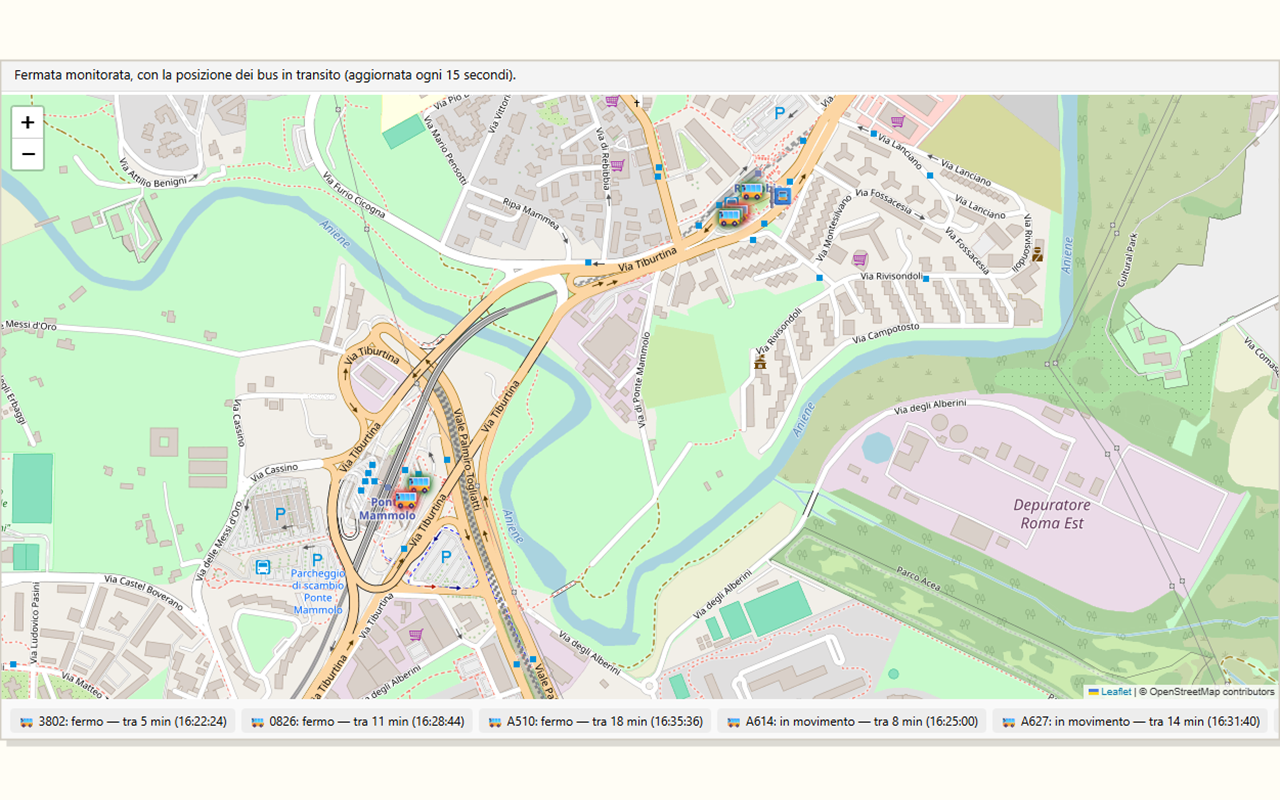
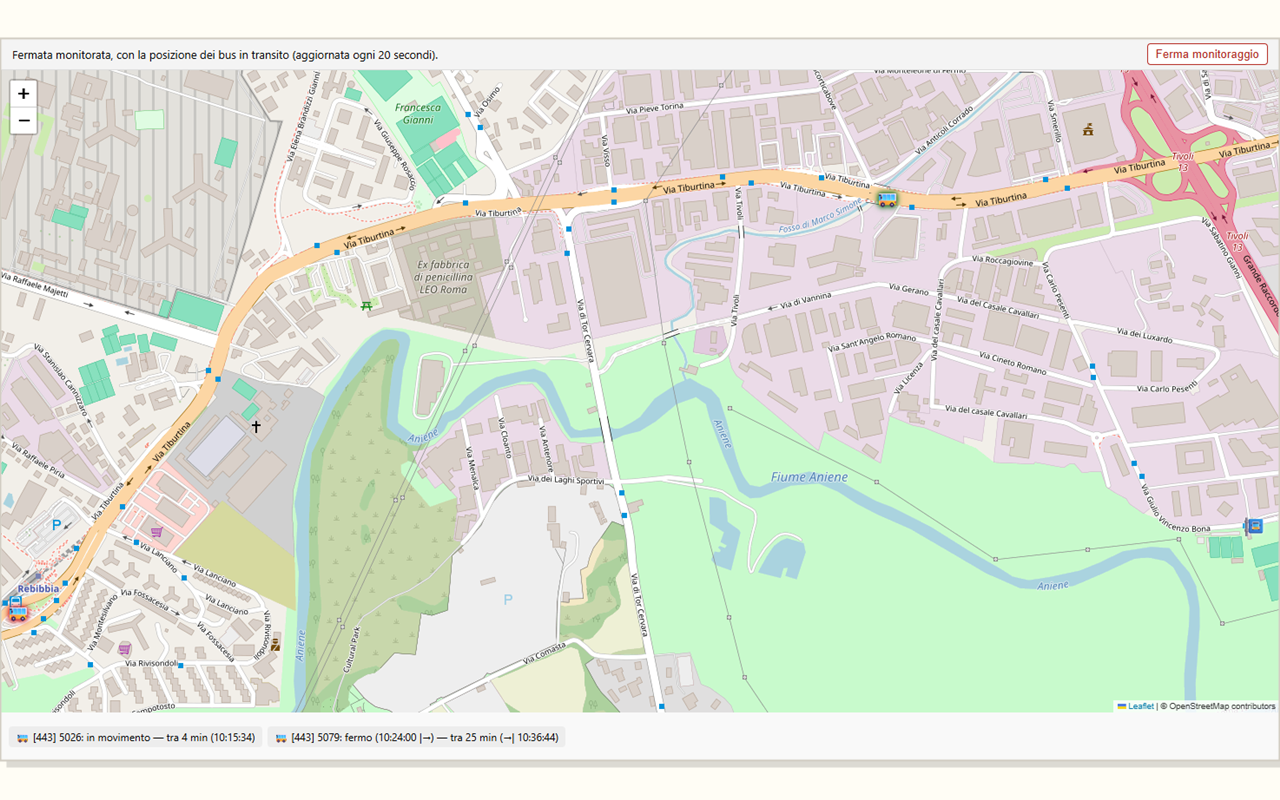
Update version to 1.0.3 and add release notes with new features and fixes

diff --git a/src/fullpage/map.ts b/src/fullpage/map.ts
@@ -8,7 +8,7 @@ import type { ArrivalInfo } from "../shared/models.js";
 import { minutesLabel } from "../shared/arrivalFormatting.js";
 
 const MAX_VISIBLE_STOPS = 150;
-const BUS_REFRESH_INTERVAL_MS = 15_000;
+const BUS_REFRESH_INTERVAL_MS = 20_000;
 const ROME_FALLBACK = { lat: 41.9028, lon: 12.4964 };
 const MAX_DISTANCE_FROM_ROME_KM = 50;
 
@@ -30,6 +30,7 @@ const stopMarkers = new Map<string, L.Marker>();
 const busMarkers = new Map<string, L.Marker>();
 let viewportDebounceTimer: number | undefined;
 let busRefreshTimer: number | undefined;
+let busRefreshInFlight = false;
 let monitoredStopId: string | null = null;
 // The upstream GTFS-RT feed drops a stop's stop_time_update entry almost as soon as the bus passes
 // it — it does NOT keep reporting it for minutes afterwards. So to keep recently-passed buses on
@@ -60,6 +61,9 @@ async function init(): Promise<void> {
 async function enterMonitorMode(stopId: string): Promise<void> {
   monitoredStopId = stopId;
   recentArrivalsByTripId = new Map();
+  // Any refresh still in flight is now for the previous session; its post-await guards make it a
+  // no-op, so don't let its flag block this session's first refresh.
+  busRefreshInFlight = false;
   window.clearInterval(busRefreshTimer);
   map?.off("moveend", onViewportMoveEnd);
 
@@ -70,7 +74,7 @@ async function enterMonitorMode(stopId: string): Promise<void> {
     return;
   }
 
-  instructionEl.textContent = "Fermata monitorata, con la posizione dei bus in transito (aggiornata ogni 15 secondi).";
+  instructionEl.textContent = "Fermata monitorata, con la posizione dei bus in transito (aggiornata ogni 20 secondi).";
   stopMonitoringButton.style.display = "block";
   mapEl.classList.add("with-bus-bar");
   busStatusBarEl.style.display = "flex";
@@ -161,14 +165,27 @@ async function selectStop(stopId: string): Promise<void> {
 
 /** Buses that already passed the stop stay visible on the map, in blue, for this long afterwards. */
 const RECENTLY_PASSED_LOOKBACK_MINUTES = 10;
+/**
+ * A bus is only treated as "already passed" once it has BOTH dropped out of the TripUpdates feed
+ * for this stop (producers remove a stop the moment the vehicle passes it) AND its last predicted
+ * arrival is comfortably in the past. Time alone isn't enough: a late bus that's still approaching
+ * keeps a stale-looking prediction while its real position shows it hasn't arrived.
+ */
+const PASSED_CONFIRM_GRACE_MS = 90_000;
 
 async function refreshBusPositions(stopId: string): Promise<void> {
+  // A slow previous refresh still resolving its fetches would otherwise interleave with this one and
+  // leak duplicate markers (it clears early, then this run adds before it finishes adding).
+  if (busRefreshInFlight) return;
+  busRefreshInFlight = true;
   try {
     // Fetch only the "fresh" (not yet passed, modulo ~1 min feed lag) sightings for this tick, then
     // merge into our own short-term memory — see recentArrivalsByTripId's comment for why.
     const freshArrivals = await realtimeService.getArrivalsForStop(stopId);
     if (monitoredStopId !== stopId) return;
 
+    // Trips still listed for this stop haven't passed it yet, however late they're running.
+    const stillApproaching = new Set(freshArrivals.map((a) => a.tripId));
     for (const arrival of freshArrivals) {
       recentArrivalsByTripId.set(arrival.tripId, arrival);
     }
@@ -177,9 +194,8 @@ async function refreshBusPositions(stopId: string): Promise<void> {
       if (arrival.arrivalTime.getTime() < cutoff) recentArrivalsByTripId.delete(tripId);
     }
 
-    clearBusMarkers();
-
     if (recentArrivalsByTripId.size === 0) {
+      clearBusMarkers();
       busStatusBarEl.innerHTML = "";
       return;
     }
@@ -188,6 +204,20 @@ async function refreshBusPositions(stopId: string): Promise<void> {
     const positions = await vehiclePositions.getPositionsForTrips(new Set(arrivalByTripId.keys()));
     if (monitoredStopId !== stopId) return;
 
+    // For buses currently stopped, look up the realtime predicted departure from the stop they're
+    // sitting at, so the chip can show when they're expected to move on.
+    const stoppedTripStops = new Map<string, string>();
+    for (const position of positions) {
+      if (position.isStopped && position.currentStopId) {
+        stoppedTripStops.set(position.tripId, position.currentStopId);
+      }
+    }
+    const predictedDepartures = await realtimeService.getPredictedDeparturesAtStops(stoppedTripStops);
+    if (monitoredStopId !== stopId) return;
+
+    // Replace this tick's snapshot in one go, only after every fetch has resolved — clearing earlier
+    // would leave the map empty during the fetch window.
+    clearBusMarkers();
     const now = Date.now();
     busStatusBarEl.innerHTML = "";
     for (const position of positions) {
@@ -195,11 +225,19 @@ async function refreshBusPositions(stopId: string): Promise<void> {
       const arrival = arrivalByTripId.get(position.tripId);
       // Prefix with the route so it's clear which line each bus belongs to at stops served by several.
       const label = arrival ? `[${arrival.routeLabel}] ${vehicleLabel}` : vehicleLabel;
-      const hasPassed = arrival !== undefined && arrival.arrivalTime.getTime() < now;
-      const etaLabel = arrival ? buildEtaLabel(arrival, hasPassed) : "";
-      const statusLabel = hasPassed ? "già passato" : position.isStopped ? "fermo" : "in movimento";
+      const hasPassed =
+        arrival !== undefined &&
+        !stillApproaching.has(position.tripId) &&
+        arrival.arrivalTime.getTime() < now - PASSED_CONFIRM_GRACE_MS;
+      const departureTime = position.isStopped && !hasPassed ? predictedDepartures.get(position.tripId) : undefined;
 
-      addBusMarker(position.tripId, position.lat, position.lon, label, position.isStopped, etaLabel, hasPassed);
+      const statusClass = hasPassed ? "passed" : position.isStopped ? "stopped" : "moving";
+      let statusLabel = hasPassed ? "già passato" : position.isStopped ? "fermo" : "in movimento";
+      if (departureTime) statusLabel = `fermo (${departureTime.toLocaleTimeString("it-IT")} |→)`;
+
+      const etaLabel = arrival ? buildEtaLabel(arrival, hasPassed, departureTime !== undefined) : "";
+
+      addBusMarker(position.tripId, position.lat, position.lon, label, statusClass, statusLabel, etaLabel);
 
       const chip = document.createElement("span");
       chip.className = hasPassed ? "bus-chip passed" : "bus-chip";
@@ -208,6 +246,8 @@ async function refreshBusPositions(stopId: string): Promise<void> {
     }
   } catch (error) {
     console.error("[map] errore durante l'aggiornamento delle posizioni bus:", error);
+  } finally {
+    busRefreshInFlight = false;
   }
 }
 
@@ -238,7 +278,7 @@ async function stopMonitoringFromMap(): Promise<void> {
   }
 }
 
-function buildEtaLabel(arrival: ArrivalInfo, hasPassed: boolean): string {
+function buildEtaLabel(arrival: ArrivalInfo, hasPassed: boolean, markArrival = false): string {
   if (hasPassed) {
     const minutesAgo = Math.round((Date.now() - arrival.arrivalTime.getTime()) / 60_000);
     const label = minutesAgo <= 0 ? "appena passato" : minutesAgo === 1 ? "passato 1 min fa" : `passato ${minutesAgo} min fa`;
@@ -246,7 +286,9 @@ function buildEtaLabel(arrival: ArrivalInfo, hasPassed: boolean): string {
   }
   const label = minutesLabel(arrival);
   const prefix = label === "in arrivo" ? "" : "tra ";
-  return `${prefix}${label} (${arrival.arrivalTime.toLocaleTimeString("it-IT")})`;
+  // When a departure time (|→) is also shown, mark the arrival time with →| to tell the two apart.
+  const arrivalMark = markArrival ? "→| " : "";
+  return `${prefix}${label} (${arrivalMark}${arrival.arrivalTime.toLocaleTimeString("it-IT")})`;
 }
 
 function buildStopTooltip(stopId: string, stopName: string): string {
@@ -279,13 +321,15 @@ function addBusMarker(
   lat: number,
   lon: number,
   label: string,
-  isStopped: boolean,
-  etaLabel: string,
-  hasPassed: boolean
+  statusClass: string,
+  statusLabel: string,
+  etaLabel: string
 ): void {
-  const statusClass = hasPassed ? "passed" : isStopped ? "stopped" : "moving";
+  const existing = busMarkers.get(tripId);
+  if (existing) map.removeLayer(existing); // never leave the previous position's marker behind
+
   const icon = L.divIcon({ className: `bus-icon ${statusClass}`, html: "🚌", iconSize: [24, 24] });
-  let popup = `${escapeHtml(label)} — ${hasPassed ? "già passato" : isStopped ? "fermo" : "in movimento"}`;
+  let popup = `${escapeHtml(label)} — ${escapeHtml(statusLabel)}`;
   if (etaLabel) popup += `<br>${escapeHtml(etaLabel)}`;
   const marker = L.marker([lat, lon], { icon }).addTo(map).bindPopup(popup);
   busMarkers.set(tripId, marker);

diff --git a/src/data/gtfsRealtimeService.ts b/src/data/gtfsRealtimeService.ts
@@ -1,14 +1,27 @@
 import type { ArrivalInfo } from "../shared/models.js";
 import { fetchAndDecodeFeed } from "./decodeFeedMessage.js";
+import type { RtFeedMessage } from "./gtfsRealtimeTypes.js";
 import type { GtfsStaticData } from "./gtfsStaticData.js";
 
 const TRIP_UPDATES_URL = "https://romamobilita.it/sites/default/files/rome_rtgtfs_trip_updates_feed.pb";
+const FEED_CACHE_MS = 10_000;
 
 export class GtfsRealtimeService {
   constructor(private readonly staticData: GtfsStaticData) {}
 
-  async getArrivalsForStop(stopId: string): Promise<ArrivalInfo[]> {
+  // Short-lived memo of the decoded TripUpdates feed so back-to-back calls within one map refresh
+  // cycle (arrivals + stopped-bus departures) don't fetch and decode the same feed twice.
+  private feedCache?: { at: number; feed: RtFeedMessage };
+
+  private async getTripUpdatesFeed(): Promise<RtFeedMessage> {
+    if (this.feedCache && Date.now() - this.feedCache.at < FEED_CACHE_MS) return this.feedCache.feed;
     const feed = await fetchAndDecodeFeed(TRIP_UPDATES_URL);
+    this.feedCache = { at: Date.now(), feed };
+    return feed;
+  }
+
+  async getArrivalsForStop(stopId: string): Promise<ArrivalInfo[]> {
+    const feed = await this.getTripUpdatesFeed();
     const minTimeMs = Date.now() - 60_000;
     const arrivals: ArrivalInfo[] = [];
 
@@ -41,5 +54,33 @@ export class GtfsRealtimeService {
 
     arrivals.sort((a, b) => a.arrivalTime.getTime() - b.arrivalTime.getTime());
     return arrivals;
+  }
+
+  /**
+   * For each `tripId → stopId` pair, the realtime predicted departure time at that stop from the
+   * TripUpdates feed — used to show when a currently-stopped bus is expected to leave the stop it's
+   * sitting at. Trips/stops with no matching prediction are simply omitted from the result.
+   */
+  async getPredictedDeparturesAtStops(tripStops: ReadonlyMap<string, string>): Promise<Map<string, Date>> {
+    const result = new Map<string, Date>();
+    if (tripStops.size === 0) return result;
+
+    const feed = await this.getTripUpdatesFeed();
+    for (const entity of feed.entity ?? []) {
+      const tripUpdate = entity.tripUpdate;
+      const tripId = tripUpdate?.trip?.tripId;
+      if (!tripId) continue;
+      const wantedStopId = tripStops.get(tripId);
+      if (wantedStopId === undefined) continue;
+
+      for (const stopTimeUpdate of tripUpdate!.stopTimeUpdate ?? []) {
+        if (stopTimeUpdate.stopId !== wantedStopId) continue;
+        const event = stopTimeUpdate.departure ?? stopTimeUpdate.arrival;
+        if (event?.time === undefined) continue;
+        result.set(tripId, new Date(event.time * 1000));
+        break;
+      }
+    }
+    return result;
   }
 }

diff --git a/src/data/vehiclePositionsService.ts b/src/data/vehiclePositionsService.ts
@@ -21,6 +21,7 @@ export class VehiclePositionsService {
         lat: vehicle.position.latitude ?? 0,
         lon: vehicle.position.longitude ?? 0,
         isStopped: vehicle.currentStatus === "STOPPED_AT",
+        currentStopId: vehicle.stopId ?? "",
       });
     }
 

diff --git a/src/data/gtfsRealtimeTypes.ts b/src/data/gtfsRealtimeTypes.ts
@@ -37,6 +37,7 @@ export interface RtVehiclePosition {
   vehicle?: RtVehicleDescriptor;
   position?: RtPosition;
   currentStatus?: "INCOMING_AT" | "STOPPED_AT" | "IN_TRANSIT_TO";
+  stopId?: string;
 }
 
 export interface RtFeedEntity {

diff --git a/src/shared/models.ts b/src/shared/models.ts
@@ -51,4 +51,6 @@ export interface VehiclePositionInfo {
   lat: number;
   lon: number;
   isStopped: boolean;
+  /** Stop the vehicle is currently at/approaching (GTFS-RT `stop_id`), "" if not reported. */
+  currentStopId: string;
 }

diff --git a/RELEASE_NOTES_v1.0.3.md b/RELEASE_NOTES_v1.0.3.md
@@ -1,0 +1,27 @@
+# Monitor Fermata ATAC Roma — Estensione Chrome — v1.0.3
+
+Disponibile sul [Chrome Web Store](https://chromewebstore.google.com/detail/gggjfmkiafdeembhhglhgeignejpjdnc).
+
+## Novità
+
+- **Orario di partenza per i mezzi fermi**: quando un bus è fermo a una fermata e il feed fornisce
+  la previsione di ripartenza, la chip sotto la mappa lo mostra accanto allo stato, ad esempio
+  `[443] 5026: fermo (09:20:00 |→) — tra 13 min (→| 09:33:00)`. Il marcatore `→|` sull'orario di
+  arrivo compare solo quando è presente anche la partenza `|→`, così i due orari restano
+  distinguibili.
+- **Aggiornamento posizioni bus ogni 20 secondi** (prima 15), per un tracciamento più regolare.
+
+## Correzioni
+
+- **Marker duplicati sulla mappa**: in caso di aggiornamenti lenti, il ciclo successivo poteva
+  partire prima che il precedente avesse finito, lasciando sulla mappa il marker "vecchio" oltre a
+  quello nuovo. Ora un nuovo aggiornamento viene saltato se il precedente è ancora in corso, e i
+  marker vengono sostituiti in blocco solo a fine ciclo.
+- **Mezzi segnalati "già passato" per errore**: un bus in ritardo, ancora in avvicinamento, poteva
+  essere marcato come già transitato solo perché l'orario previsto era passato. Ora lo stato "già
+  passato" richiede sia che il mezzo sia sparito dal feed della fermata (i dati GTFS-RT rimuovono la
+  fermata appena il veicolo la supera) sia che l'ultima previsione sia oltre 90 secondi nel passato.
+
+## Note tecniche
+
+- Nessuna modifica ai permessi richiesti.
